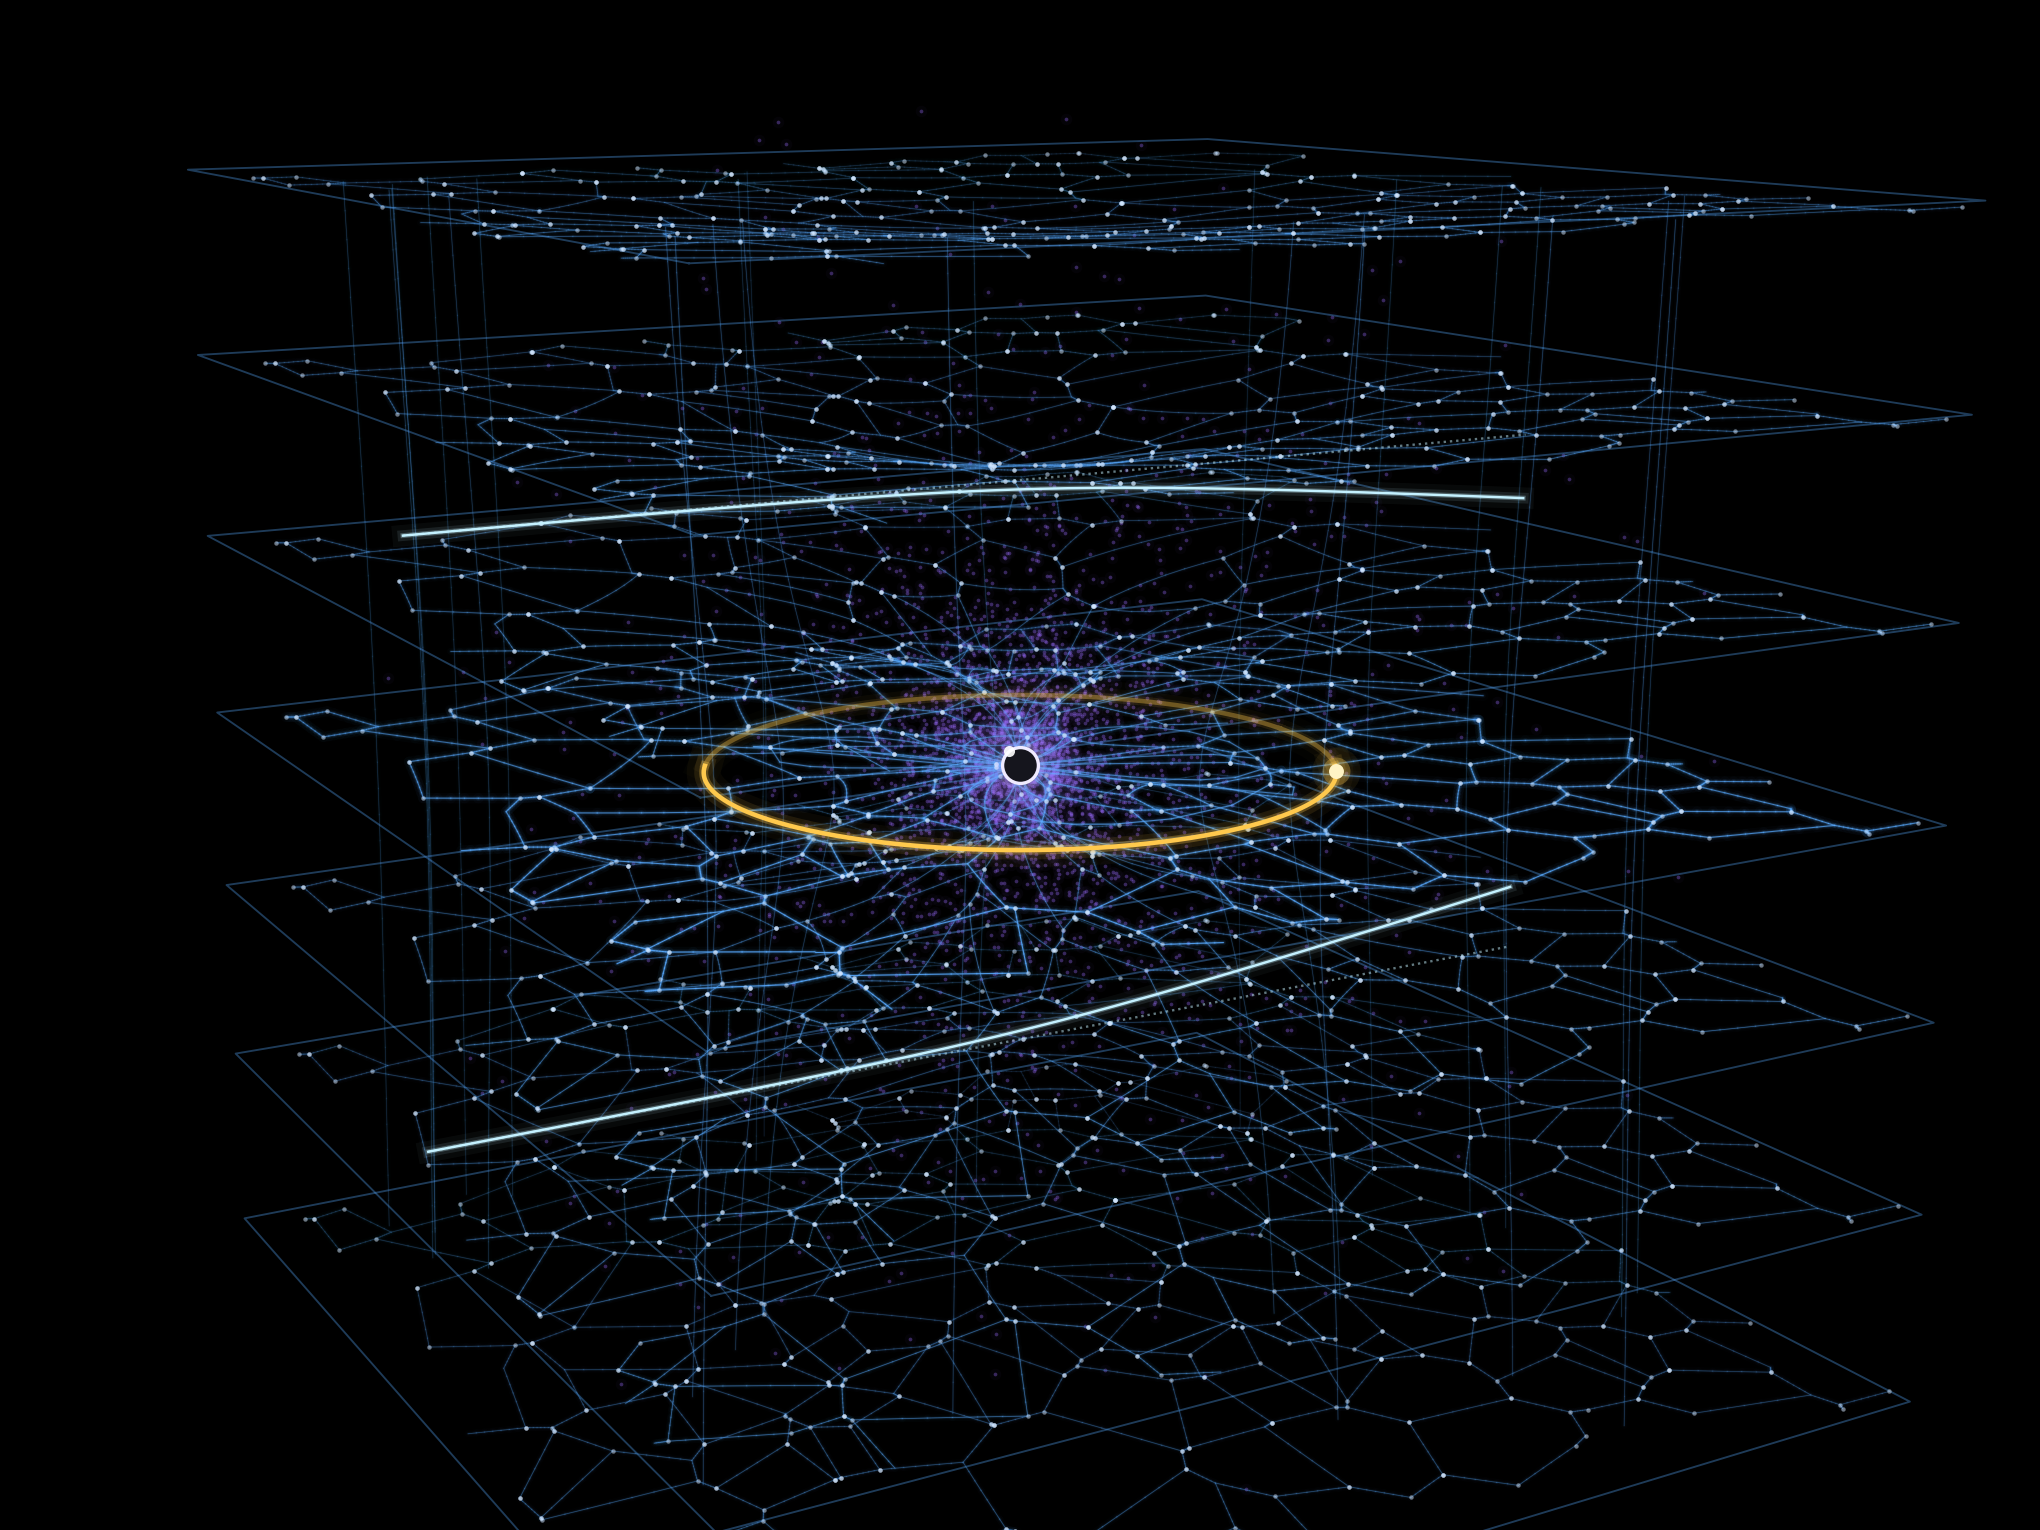
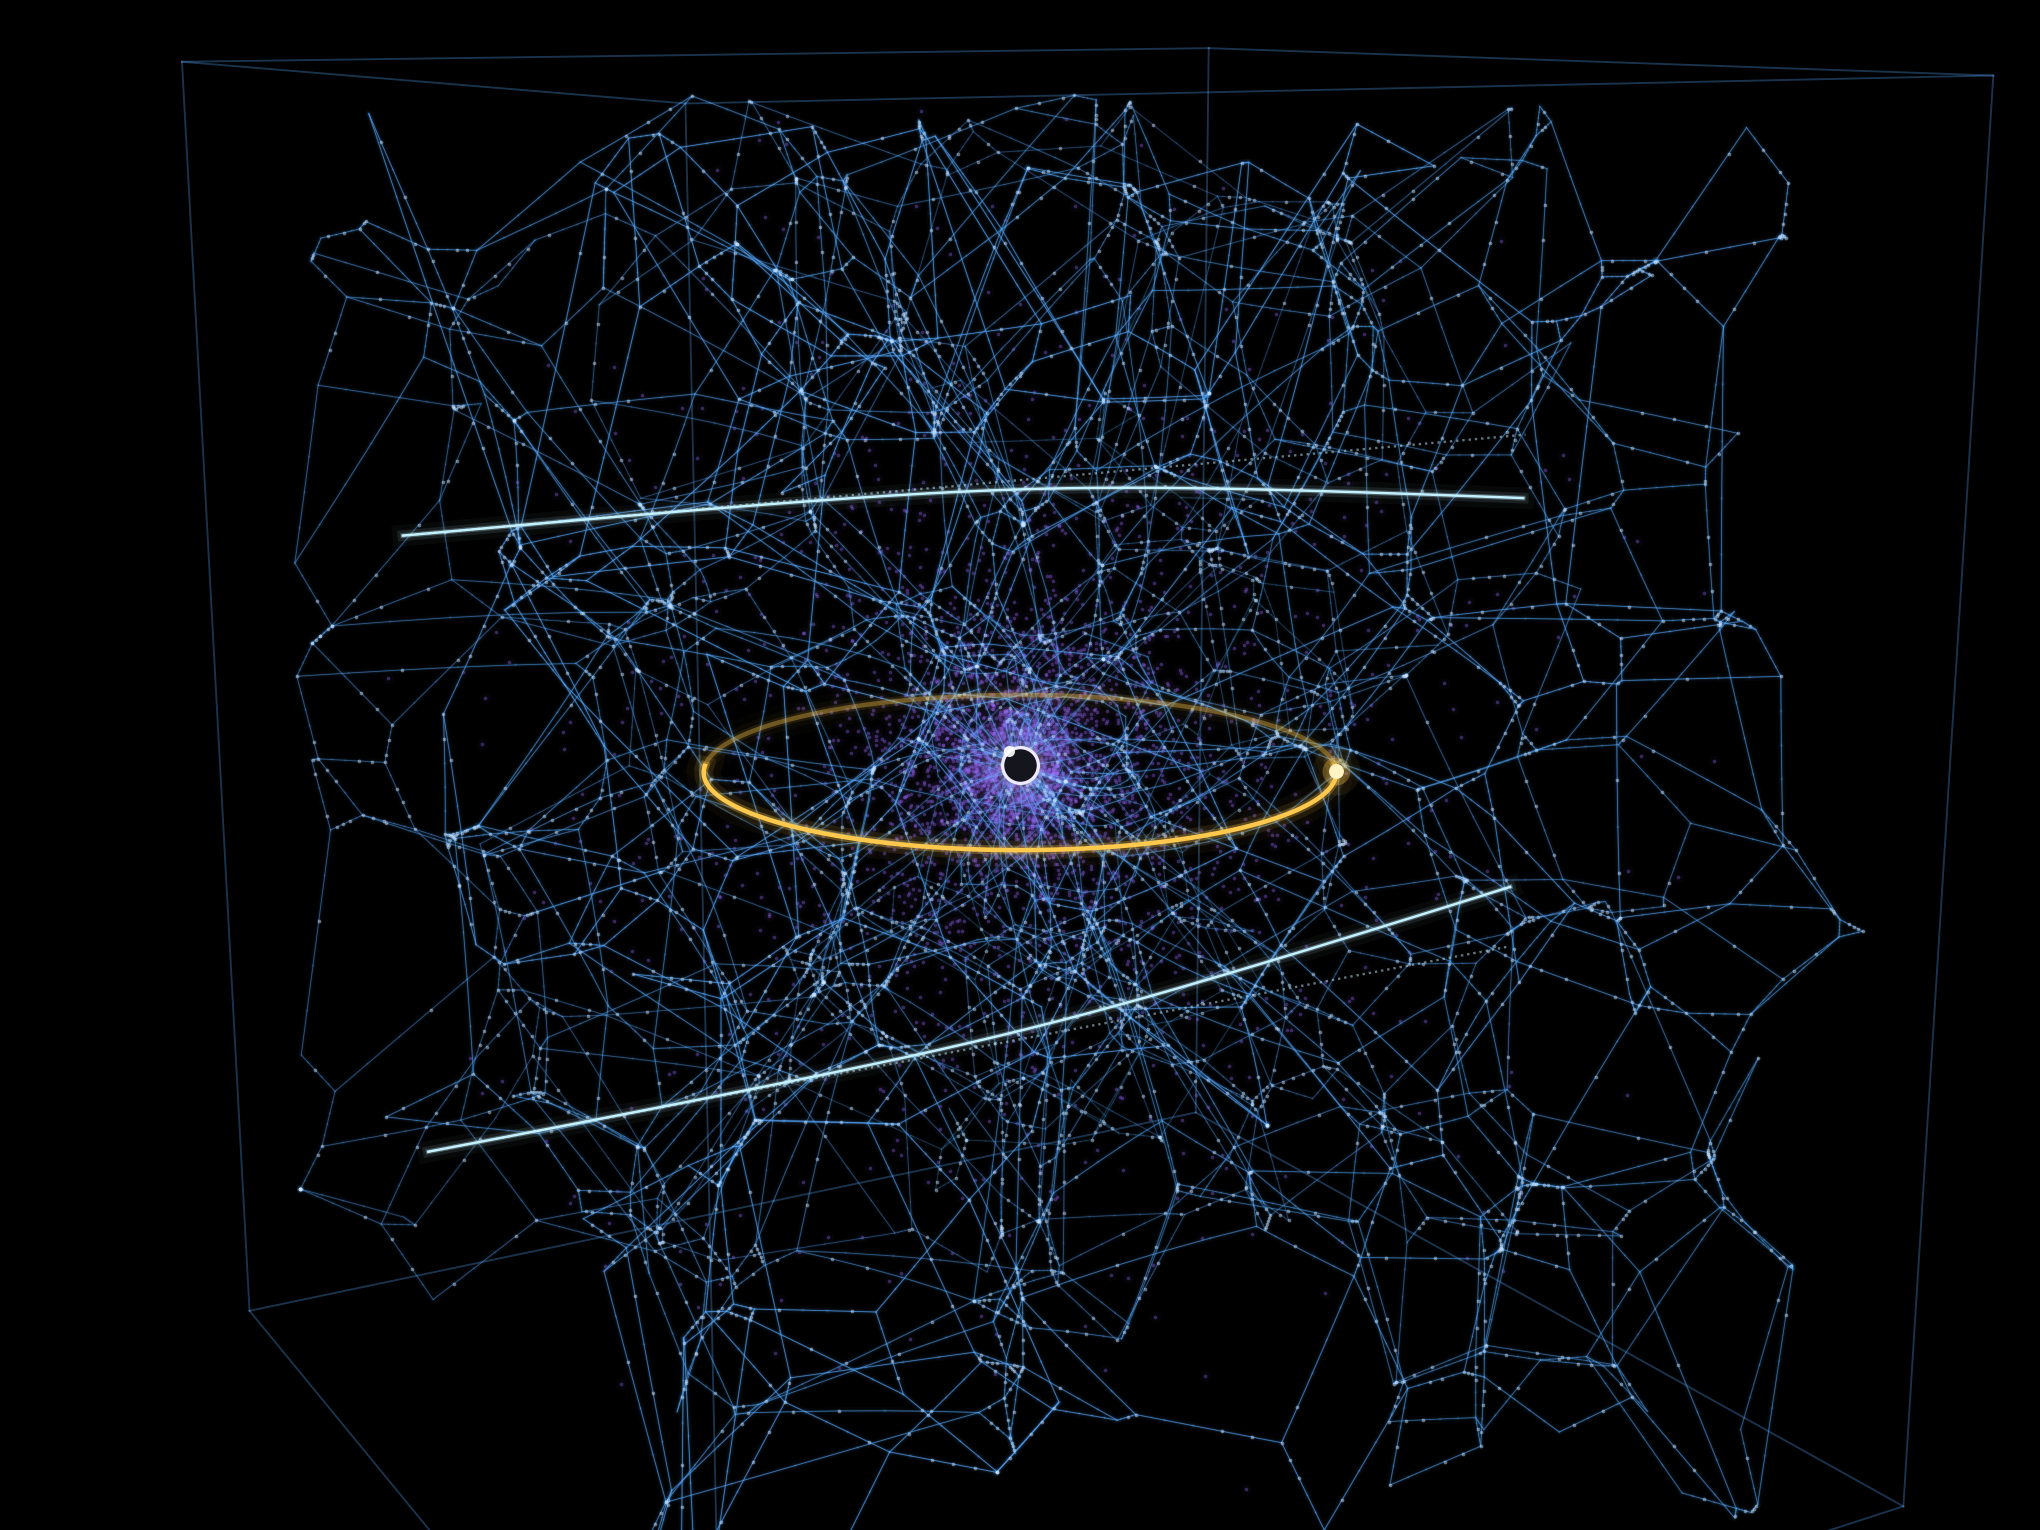
Cover: true 3-D random network (no planes or preferred direction)
Claude-Session: https://claude.ai/code/session_016k7v6sHn149ac7ZSsVGsYx

diff --git a/paper/figures/make_hero3d.py b/paper/figures/make_hero3d.py
@@ -54,6 +54,23 @@ def ray(p0, v0, k=0.045, T=2.6):
     s = solve_ivp(f, [0, T], np.r_[p0, v0], max_step=0.004, rtol=1e-9); X = s.y[:3].T
     return X[np.all(np.abs(X[:, :2]) <= 1.0, axis=1)]
 
+
+# ---- true 3-D random network (no planes, no preferred direction) ----
+P3 = np.random.default_rng(9).uniform(-1.15, 1.15, (340, 3)); V3 = Voronoi(P3); NET = []
+for rv in V3.ridge_vertices:
+    if -1 in rv: continue
+    poly = V3.vertices[rv]
+    if np.any(np.abs(poly) > 1.0): continue
+    for i in range(len(poly)):
+        a, b = poly[i], poly[(i + 1) % len(poly)]; NET.append((tuple(np.round(a, 9)), tuple(np.round(b, 9))))
+NET = np.array(list({tuple(sorted(e)) for e in NET}))          # unique edges
+def net_segments():
+    segs = []
+    for a, b in NET:
+        t = np.linspace(0, 1, 6)[:, None]; pts = a + (b - a)*t; q = pull(pts)
+        segs += [np.array([q[i], q[i + 1]]) for i in range(5)]
+    return np.array(segs)
+
 def render(labels):
     fig = plt.figure(figsize=(12, 9), facecolor="black"); ax = fig.add_axes([0, 0, 1, 1]); ax.set_facecolor("black")
     ax.set_xlim(-1.62, 1.62); ax.set_ylim(-1.12, 1.12); ax.axis("off")
@@ -62,18 +79,15 @@ def render(labels):
     v = rng.normal(size=(len(r), 3)); v /= np.linalg.norm(v, axis=1, keepdims=True); F = v*r[:, None]
     F = F[np.all(np.abs(F) <= [1, 1, 0.95], axis=1)]; F2, _ = proj(F)
     ax.scatter(*F2.T, s=24, color=FLU, alpha=0.03, lw=0, zorder=1); ax.scatter(*F2.T, s=2.5, color=FLU, alpha=0.35, lw=0, zorder=1)
-    # planes of the grid, back-to-front
-    for z0 in PLANES:
-        segs = plane_segments(z0); w = 1.0 if z0 == 0 else 0.7
-        glow_lines(ax, segs, GRID, width=0.75*w, zo=3, alpha=1.0 if z0 == 0 else 0.8 - 0.35*abs(z0))
-        nodes = proj(pull(np.c_[np.array([a for a, b in E]), np.full(len(E), z0)]))[0]
-        ax.scatter(*nodes.T, s=3.5, color="#d5e8ff", alpha=0.5, lw=0, zorder=4)
-        fr = np.array([[-1, -1, z0], [1, -1, z0], [1, 1, z0], [-1, 1, z0], [-1, -1, z0]]); f2, _ = proj(fr)
-        ax.plot(*f2.T, color=GRID, lw=0.8, alpha=0.35, zorder=2)
-    # vertical links between planes (sparse), also drawn in toward the mass
-    for (x, y) in rng.uniform(-0.9, 0.9, (26, 2)):
-        zz = np.linspace(PLANES[0], PLANES[-1], 40); pts = pull(np.c_[np.full(40, x), np.full(40, y), zz])
-        glow_lines(ax, np.array([pts[i:i + 2] for i in range(39)]), GRID, width=0.45, zo=2, alpha=0.45)
+    # the grid: a random 3-D network (cell edges), every part drawn in toward the mass
+    segs = net_segments(); glow_lines(ax, segs, GRID, width=0.55, zo=3, alpha=0.85)
+    nodes = np.unique(segs.reshape(-1, 3), axis=0); n2, _ = proj(nodes[::3])
+    ax.scatter(*n2.T, s=2.5, color="#d5e8ff", alpha=0.45, lw=0, zorder=4)
+    box = np.array([[x, y, z] for x in (-1, 1) for y in (-1, 1) for z in (-1, 1)])
+    for i in range(8):
+        for j in range(i + 1, 8):
+            if np.sum(box[i] != box[j]) == 1:
+                b2, _ = proj(np.array([box[i], box[j]])); ax.plot(*b2.T, color=GRID, lw=0.8, alpha=0.3, zorder=2)
     # geodesic 1: circular orbit in the central plane
     th = np.linspace(0, 2*np.pi, 400); R = 0.5; O = np.c_[R*np.cos(th), R*np.sin(th), 0*th]
     O2, d = proj(O); front = d < 0
@@ -96,10 +110,10 @@ def render(labels):
     if labels:
         def lab(xy, txt, col="#dfe9ff", ha="left"):
             ax.text(*xy, txt, color=col, fontsize=11.5, ha=ha, va="center", zorder=20, bbox=dict(fc="black", ec="none", alpha=0.75, pad=3))
-        lab((-1.58, 1.04), "one moment of space, in 3-D\n(planes = floors of a building, not time)")
-        lab((0.98, 0.8), "planes above the mass\nsag DOWN toward it")
-        lab((0.98, 0.02), "plane through the mass:\npinched INWARD sideways")
-        lab((0.98, -0.8), "planes below the mass\nbulge UP toward it")
+        lab((-1.58, 1.04), "one moment of space, in 3-D:\na random network with no up, down or sideways")
+        lab((0.98, 0.8), "above the mass the grid\nis drawn DOWN toward it")
+        lab((0.98, 0.02), "level with the mass it is\ndrawn INWARD sideways")
+        lab((0.98, -0.8), "below the mass it is\ndrawn UP toward it")
         lab((-1.58, -0.98), "gold: a circular orbit (straightest path\nin the drawn-in grid)\npale blue: light bending toward the mass;\ndotted = straight lines", GOLD)
         lab((-1.58, 0.5), "violet haze: the fluid\n(dark matter) pooled around\nthe mass", "#c8b5ff")
     return fig

diff --git a/paper/figures/CAPTIONS.md b/paper/figures/CAPTIONS.md
@@ -8,13 +8,13 @@ breaks, so a reader or auditor can see what the picture claims and what it does 
 ---
 
 ## Figure 0 (overview / cover). One moment of space in 3-D, drawn in toward a mass from every side
-**Caption.** The grid at one moment, shown in full 3-D as seven planes of random mosaic. The planes are only a way to draw
-3-D space, like the floors of a building; they are not time. A mass draws the grid in toward itself from every direction.
-The plane through its centre is pinched inward sideways, the planes above sag down toward it, and the planes below bulge
-up toward it, less and less with distance. The draw-in weakens with distance, with the softened inverse-square shape computed for the random net in
-Figure 2. The fluid (dark matter, violet haze) pools around the mass in a round cloud. Gold: a circular orbit, the
-straightest path available in the drawn-in grid. Pale blue: light passing above and below the mass bends toward it.
-Dotted lines show where it would go without the mass. Bending is computed by 3-D ray tracing and exaggerated.
+**Caption.** The grid at one moment, shown in full 3-D: the edges of a random network of cells (Figure 10) filling a
+cube. The network has no planes, columns or preferred direction; up, down and sideways are all alike. A mass draws the
+grid in toward itself from every direction: above the mass the network is drawn down, below it drawn up, level with it
+drawn inward sideways, and less and less with distance (softened inverse-square, the shape computed in Figure 2). The
+fluid (dark matter, violet haze) pools around the mass in a round cloud. Gold: a circular orbit, the straightest path
+available in the drawn-in grid. Pale blue: light passing above and below the mass bends toward it. Dotted lines show
+where it would go without the mass. Bending is computed by 3-D ray tracing and exaggerated.
 
 **Why not the rubber sheet.** The usual stretched-blanket picture shows space dipping *downward*. That needs an extra
 direction for the dip and uses 'downhill' (gravity) to explain gravity. In 3-D there is no 'down': every part of the grid
